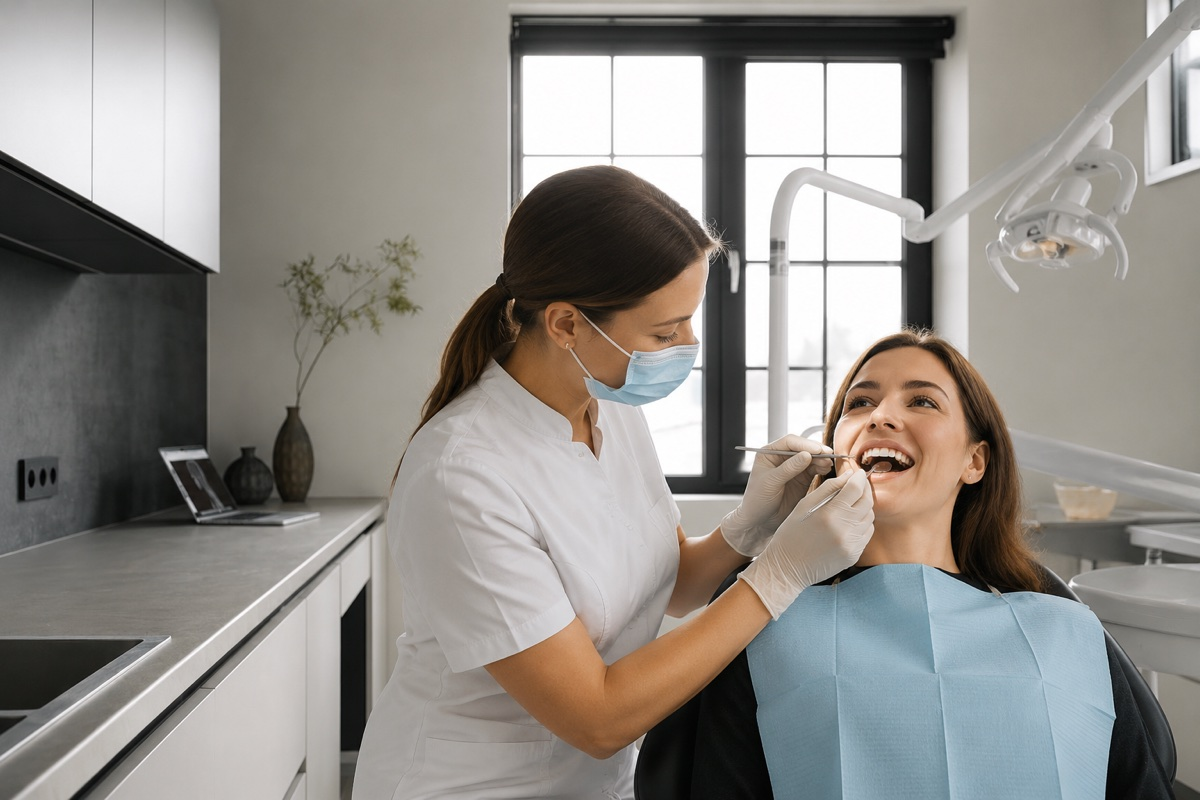
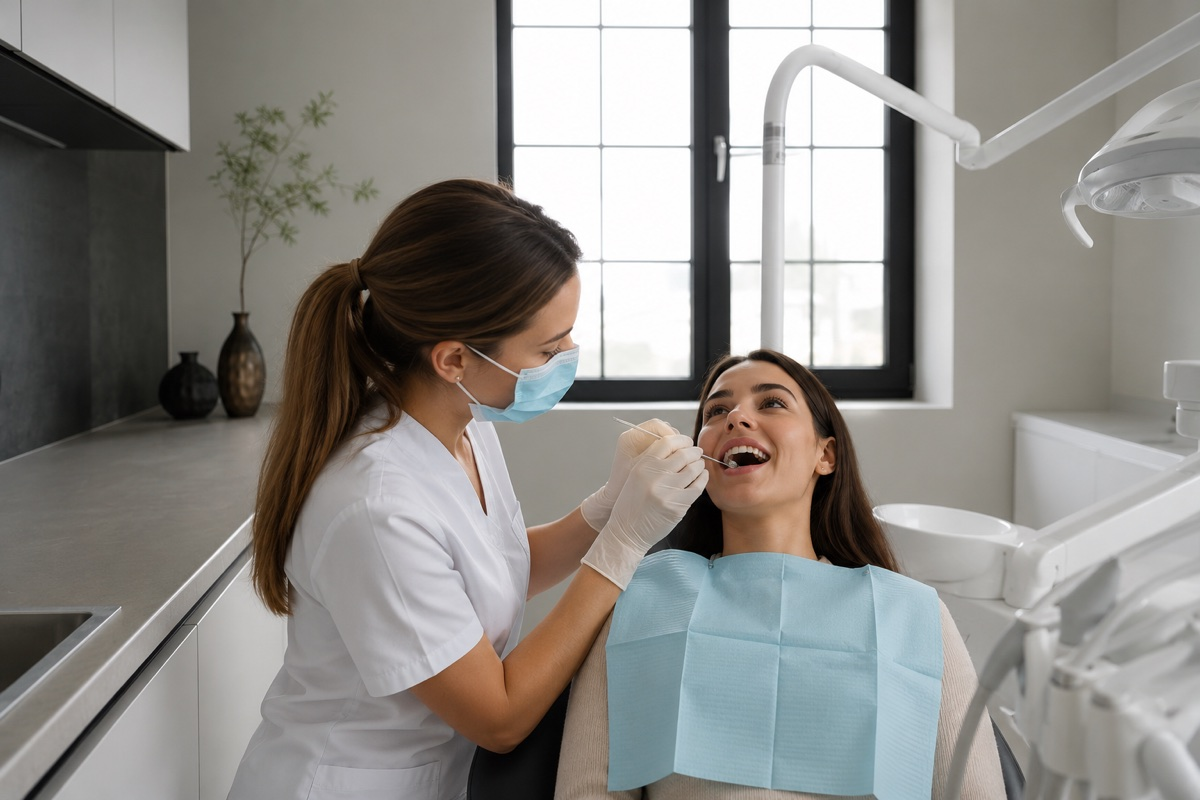
Карточки услуг — на 7 разных реальных интерьерах; галерея «О клинике» → 4 фото
- 7 карточек «Наши направления» перегенерены на РАЗНЫХ помещениях клиники
  (kie i2i, реальные интерьеры как фон): имплантация→рабочее место, протезирование→
  зона с диваном, лечение→кабинет с креслом, гигиена→зал с растениями, отбеливание→
  ресепшен с креслами, брекеты→ресепшен-стойка, детская→консультационная зона.
- Галерея «Стоматология, которой доверяют семьи» сокращена до 4 фото (2×2):
  3 видео-интерьера + фасад (убран дублирующий кадр входа).

diff --git a/index.html b/index.html
@@ -213,11 +213,10 @@
           <a class="btn btn--primary" href="kontakty.html#consult">Записаться на приём</a>
         </div>
         <div class="about__gallery">
-          <figure class="about__photo"><img src="assets/img/clinic-team.jpg" alt="Вход в стоматологию Натальи Боровиковой в Ворсме" loading="lazy"></figure>
           <figure class="about__photo"><video class="about__vid" autoplay muted loop playsinline preload="metadata" poster="assets/img/clinic-room.jpg" aria-label="Лечебный кабинет клиники"><source src="assets/video/clinic-room.mp4" type="video/mp4"><img src="assets/img/clinic-room.jpg" alt="Лечебный кабинет" loading="lazy"></video></figure>
           <figure class="about__photo"><video class="about__vid" autoplay muted loop playsinline preload="metadata" poster="assets/img/clinic-waiting.jpg" aria-label="Зона ожидания"><source src="assets/video/clinic-waiting.mp4" type="video/mp4"><img src="assets/img/clinic-waiting.jpg" alt="Зона ожидания" loading="lazy"></video></figure>
           <figure class="about__photo"><video class="about__vid" autoplay muted loop playsinline preload="metadata" poster="assets/img/clinic-reception.jpg" aria-label="Рабочее место врача"><source src="assets/video/clinic-reception.mp4" type="video/mp4"><img src="assets/img/clinic-reception.jpg" alt="Рабочее место врача" loading="lazy"></video></figure>
-          <figure class="about__photo about__photo--wide"><img src="assets/img/clinic-facade.jpg" alt="Здание клиники" loading="lazy"></figure>
+          <figure class="about__photo"><img src="assets/img/clinic-facade.jpg" alt="Здание клиники" loading="lazy"></figure>
         </div>
       </div>
     </section>

diff --git a/o-klinike.html b/o-klinike.html
@@ -148,11 +148,10 @@
         <h2 class="section-title">Клиника внутри</h2>
         <p class="svc-section__lead">Светлые кабинеты, современное оборудование и уютная зона ожидания — мы создали пространство, в котором спокойно и взрослым, и детям.</p>
         <div class="about__gallery" style="margin-top:22px">
-          <figure class="about__photo"><img src="assets/img/clinic-team.jpg" alt="Команда врачей клиники" loading="lazy"></figure>
           <figure class="about__photo"><img src="assets/img/clinic-room.jpg" alt="Лечебный кабинет" loading="lazy"></figure>
           <figure class="about__photo"><img src="assets/img/clinic-waiting.jpg" alt="Зона ожидания" loading="lazy"></figure>
           <figure class="about__photo"><img src="assets/img/clinic-reception.jpg" alt="Рабочее место врача" loading="lazy"></figure>
-          <figure class="about__photo about__photo--wide"><img src="assets/img/clinic-facade.jpg" alt="Здание клиники" loading="lazy"></figure>
+          <figure class="about__photo"><img src="assets/img/clinic-facade.jpg" alt="Здание клиники" loading="lazy"></figure>
         </div>
       </div>
     </section>
